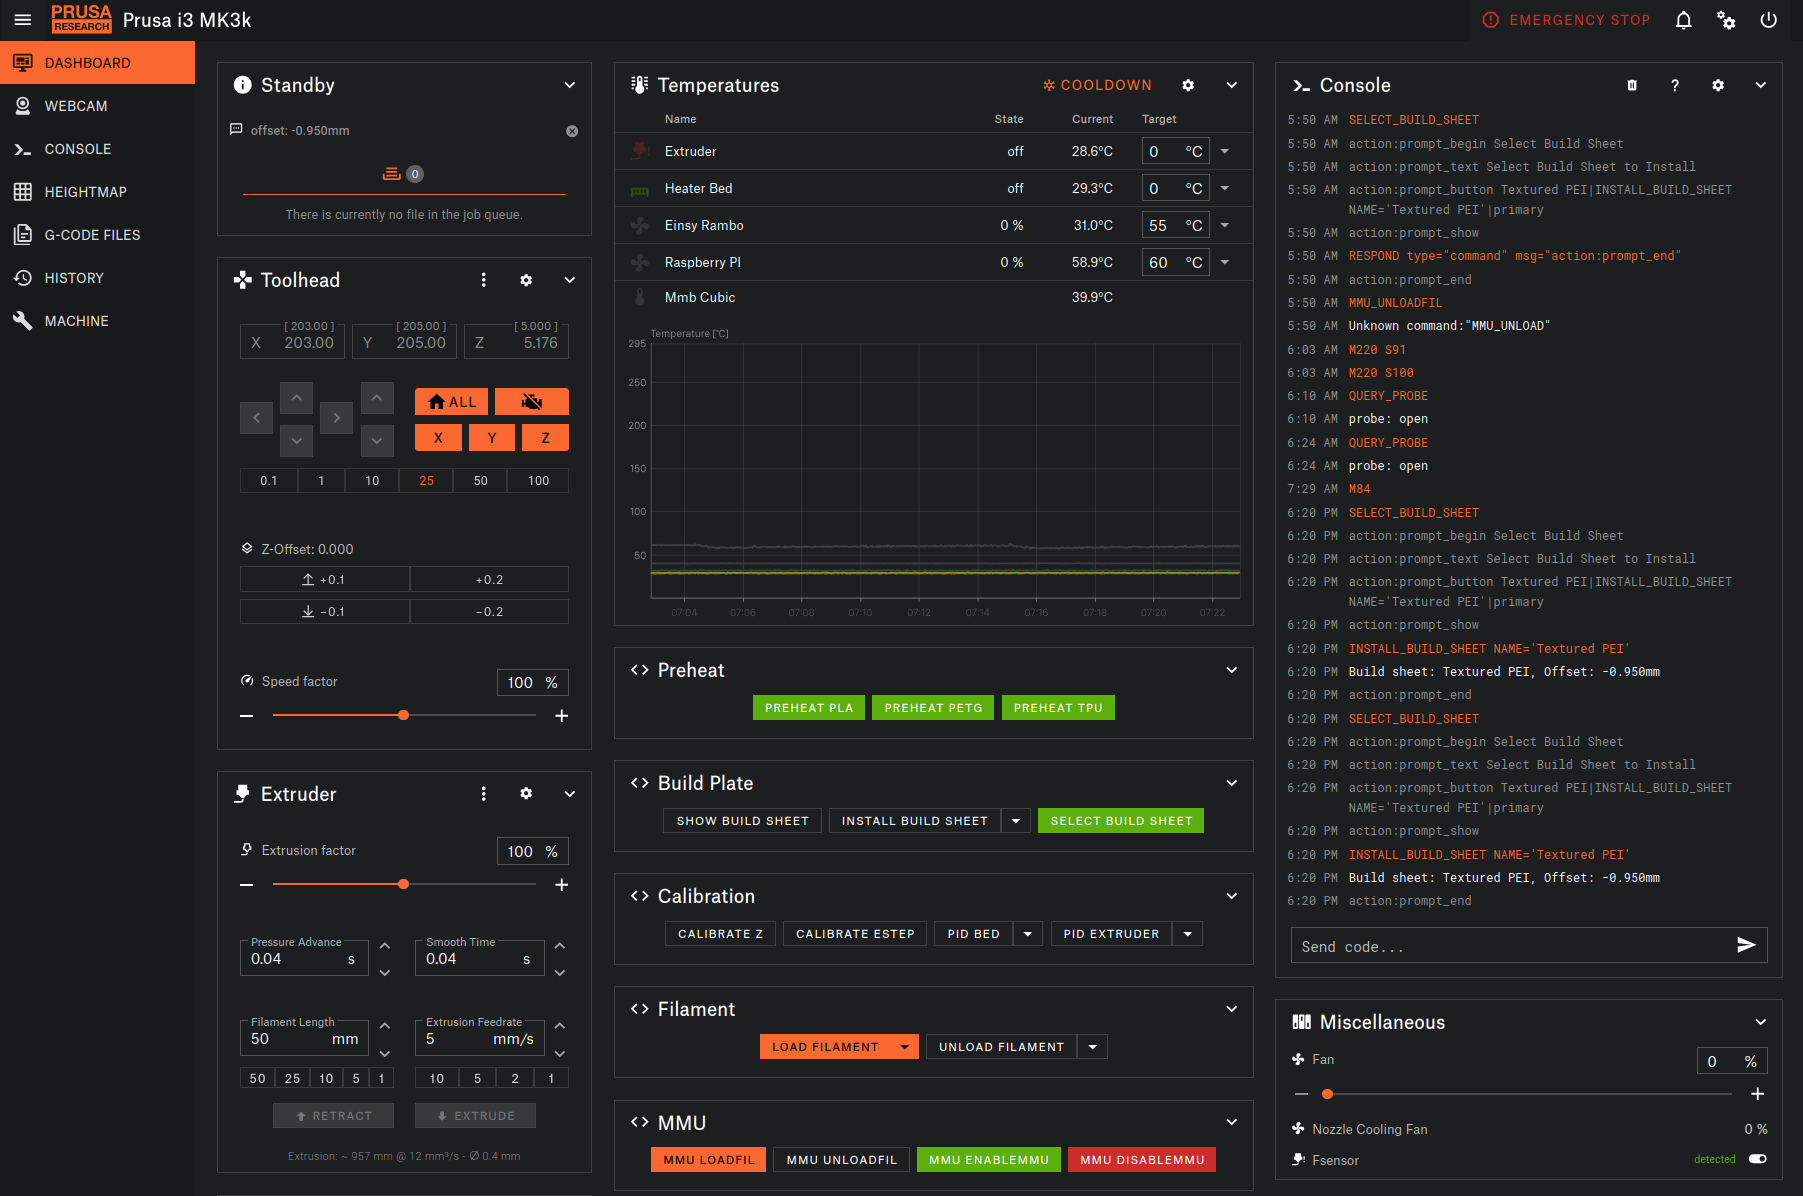
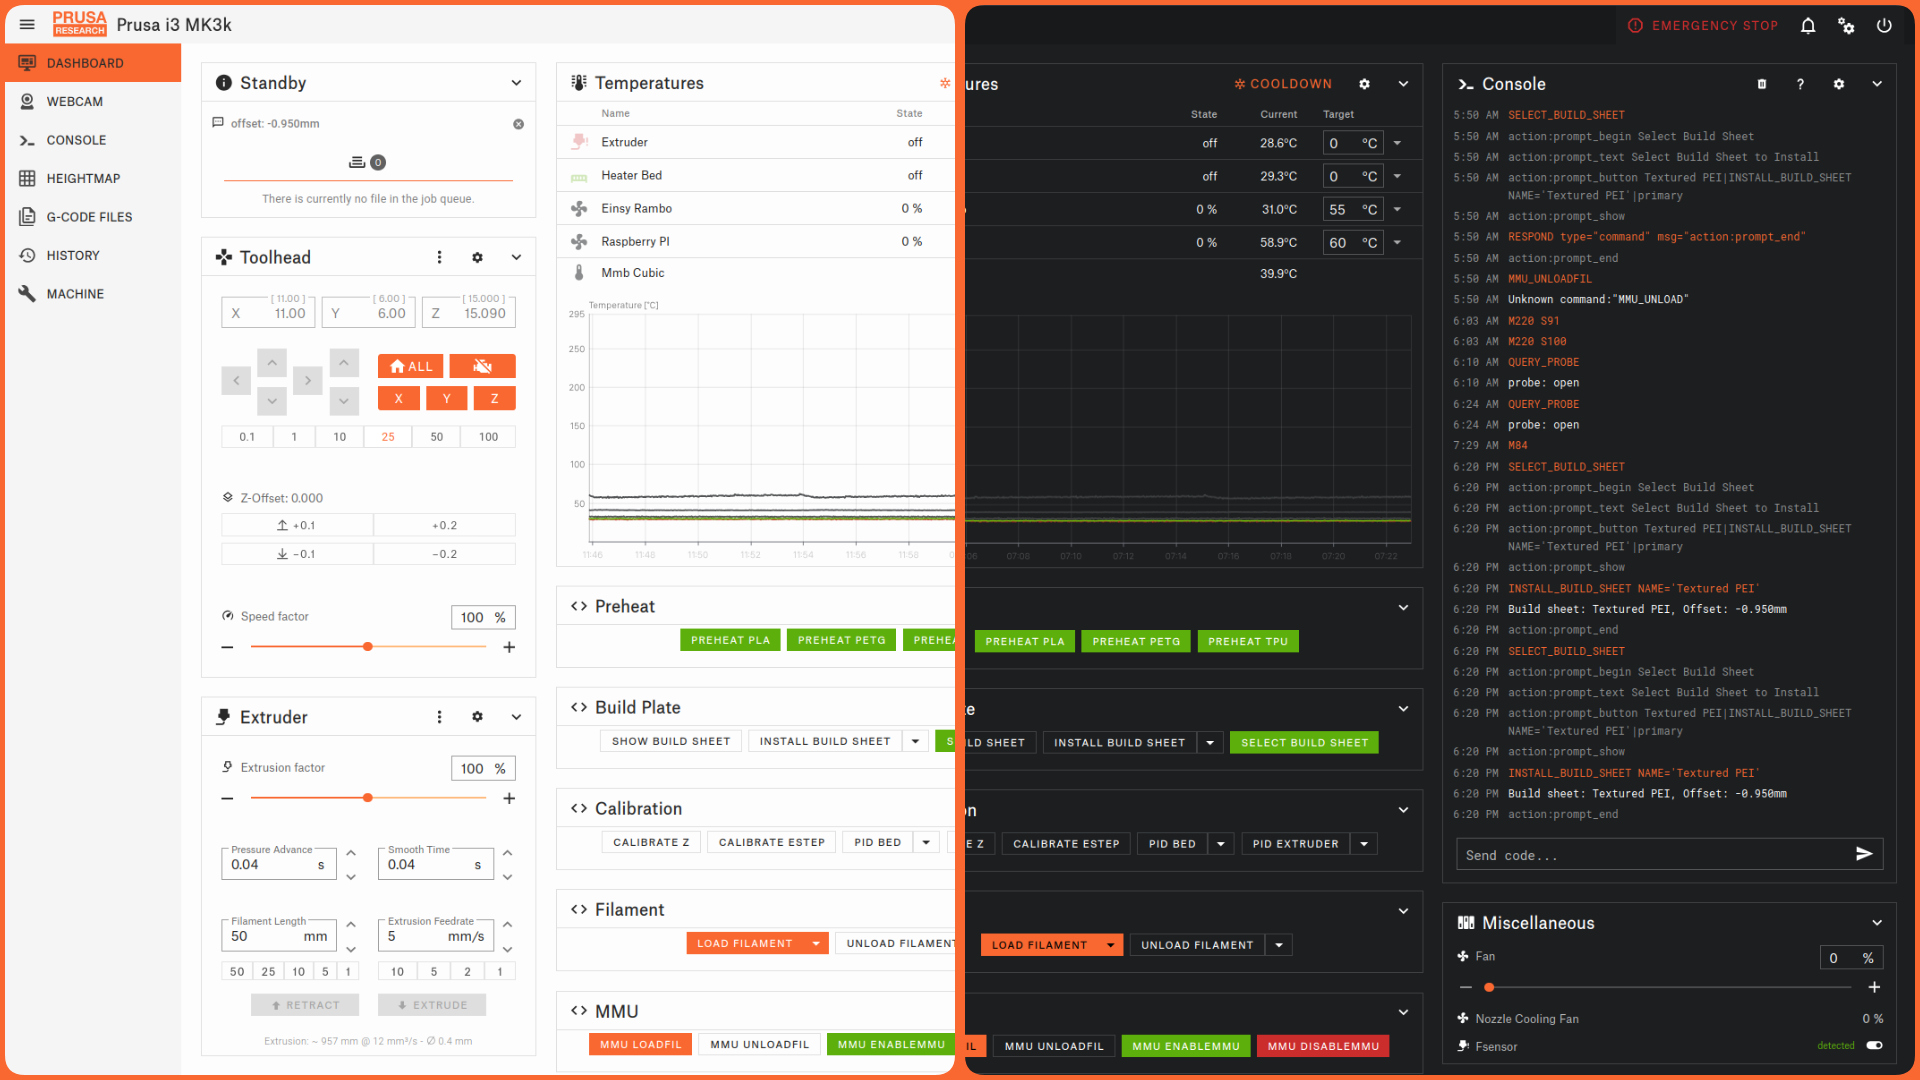
added light mode

diff --git a/custom.css b/custom.css
@@ -1,4 +1,4 @@
-:root {
+:root .theme--dark {
     --v-info-base: #fa6831;
     --v-warning-base: #fa6831;
     --v-error-base: #cb2c2c;
@@ -7,6 +7,23 @@
     --p-background-darker: #18191a;
     --p-border: #3f4143;
     --p-accent-green: #5daf0b;
+    --p-text-color: rgb(224, 224, 224);
+    --p-text-color2: #b3b3b3;
+    --p-text-color3: black;
+}
+
+:root .theme--light {
+    --v-info-base: #fa6831;
+    --v-warning-base: #fa6831;
+    --v-error-base: #cb2c2c;
+
+    --p-background-dark: #fdfdfd;
+    --p-background-darker: #f5f5f5;
+    --p-border: #e0e0e0;
+    --p-accent-green: #5daf0b;
+    --p-text-color: rgb(42, 42, 42);
+    --p-text-color2: rgb(128, 128, 128);
+    --p-text-color3: white;
 }
 
 @font-face {
@@ -19,8 +36,26 @@
     font-family: Atlas Grotesk Web !important;
 }
 
+header.topbar {
+    box-shadow: none !important;
+}
+
 main#content {
     background-color: var(--p-background-dark);
+}
+
+.theme--light.v-sheet,
+.theme--dark.v-sheet {
+    color: var(--p-text-color);
+}
+
+.v-data-table > .v-data-table__wrapper > table > thead > tr:last-child > th,
+.v-input--is-disabled,
+.v-input--is-disabled input,
+.v-input--is-disabled textarea,
+.theme--light.v-application .text--disabled,
+.theme--dark.v-application .text--disabled {
+    color: var(--p-text-color2) !important;
 }
 
 .active-nav-item {
@@ -28,18 +63,26 @@ main#content {
     background: var(--v-warning-base);
 }
 
+.panel-toolbar {
+    border-bottom: 1px solid var(--p-border) !important;
+}
+
 .active-nav-item .menu-item-title,
-.active-nav-item .menu-item-icon {
-    color: black;
+.active-nav-item .menu-item-icon,
+.theme--light.v-icon,
+.theme--dark.v-icon,
+.theme--light.v-btn.v-btn--icon,
+.theme--dark.v-btn.v-btn--icon {
+    color: var(--p-text-color);
 }
 
 .v-item-group .v-list-item:not(.active-nav-item):hover .menu-item-title,
 .v-item-group .v-list-item:not(.active-nav-item):hover .v-icon {
-  color: var(--v-warning-base) !important;
+    color: var(--v-warning-base) !important;
 }
 
 .v-list-item::before {
-  opacity: 0 !important;
+    opacity: 0 !important;
 }
 
 .v-list {
@@ -57,6 +100,7 @@ main#content {
 }
 
 .v-toolbar,
+.topbar .v-btn,
 .v-navigation-drawer,
 .v-dialog,
 .v-menu__content {
@@ -103,11 +147,18 @@ hr,
 }
 
 .v-btn,
-.v-chip,
-.v-input__slot {
+.v-chip {
     border-radius: 0px !important;
     box-shadow: none !important;
     background-color: var(--p-background-dark) !important;
+}
+
+.v-input__slot {
+    border-radius: 0px !important;
+}
+
+.update-manager-list .v-chip--disabled {
+    opacity: 1;
 }
 
 .v-dialog,
@@ -136,13 +187,22 @@ div[class*="macrogroup"] .v-card__text {
 }
 
 .v-btn:not(.v-btn--outlined).primary,
-.v-btn:not(.v-btn--round).v-size--default {
-    color: white;
+.v-btn:not(.v-btn--round).v-size--default,
+.v-btn.primary {
+    color: var(--p-text-color);
 }
 
-.v-btn.warning,
-.v-btn.primary {
-    color: black !important;
+.v-btn.warning {
+    color: var(--p-text-color3) !important;
+}
+
+.theme--light.v-list-item:not(.v-list-item--active):not(.v-list-item--disabled),
+.theme--dark.v-list-item:not(.v-list-item--active):not(.v-list-item--disabled) {
+    color: var(--p-text-color) !important;
+}
+
+.menu-item-title {
+    opacity: 1 !important;
 }
 
 .consoleScrollContainer {
@@ -170,7 +230,7 @@ tr:hover,
     background-color: var(--p-background-dark) !important;
     border: 1px solid var(--p-border) !important;
     box-shadow: none !important;
-    color: white !important;
+    color: var(--p-text-color) !important;
 }
 
 .v-btn.v-item--active {
@@ -183,15 +243,15 @@ tr:hover,
 }
 
 .v-application .v-btn.primary {
-    color: white !important;
+    color: var(--p-text-color) !important;
     background-color: var(--p-background-dark) !important;
     border: 1px solid var(--p-border) !important;
 }
 
 .v-application .v-btn.secondary {
-    color: white !important;
+    color: var(--p-text-color) !important;
     background-color: var(--p-background-dark) !important;
-    border: 1px solid white !important;
+    border: 1px solid var(--p-text-color) !important;
 }
 
 .v-application .v-btn.primary:hover,

diff --git a/README.md b/README.md
@@ -1,15 +1,19 @@
 # mainsail-printables
-A Mainsail dark theme with orange accents designed to mimick the look of the Printables website (dark mode only).
+A Mainsail theme with orange accents designed to mimick the look of the Printables website (Dark mode and Light mode).
 
+## Preview
+![Screenshot](./screenshot.jpg)
 
 ## Installation
 1. Clone the files from this repo:
 ```bash
 git clone https://github.com/8bitmcu/mainsail-printables ~/printer_data/config/.theme
 ```
-2. Go to ***Settings*** and set ***Mode*** to dark.
+2. Go to ***Settings*** and set ***Mode*** to dark or light.
 3. Go to ***Settings*** -> ***UI-Settings*** and set ***Logo*** and ***Primary*** color to `250, 104, 49`. 
 4. Optionally set the colors of your extruder and heated bed to #cb2c2c (red), #5daf0b (green) and #3f4143 (gray)
 
-## Preview
-![Screenshot](./screenshot.jpg)
+## Screenshots
+
+![dark mode](./dark_theme.jpg)
+![light mode](./light_theme.jpg)
